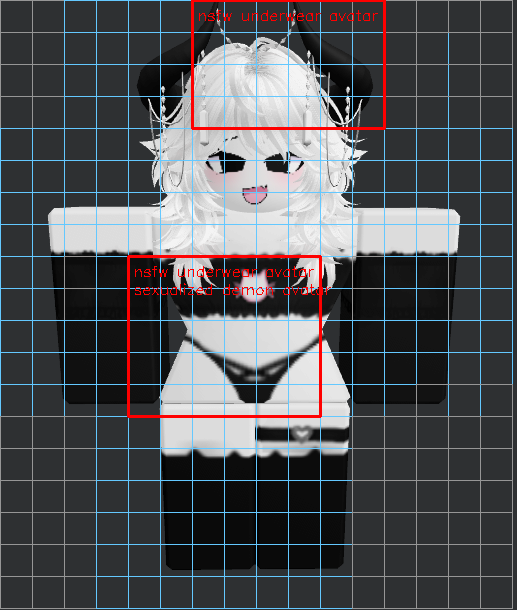
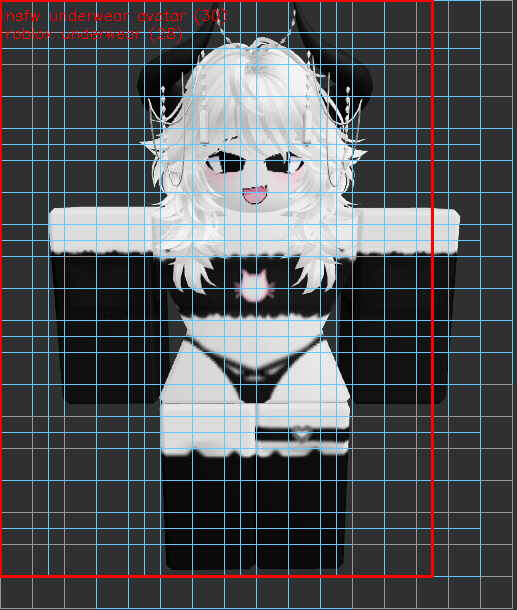
Add multi patch size processing
- Add multi patch size processing

diff --git a/check_image.py b/check_image.py
@@ -13,7 +13,7 @@ INPUT_FOLDER = "input_images"
 OUTPUT_FOLDER = "output_images"
 PATCH_SIZE = 96
 STRIDE = 32
-THRESHOLD = 0.29
+THRESHOLD = 0.28
 LOG_PATH = "renamed_log.txt"
 
 # Create output folder if needed
@@ -25,13 +25,40 @@ device = "cuda" if torch.cuda.is_available() else "cpu"
 model, preprocess = clip.load("ViT-B/32", device=device)
 
 prompts = [
-    # Clothing prompts
-    "black thong", "black lingerie thong", "exposed crotch", "revealing groin",
-    "tight underwear", "nsfw underwear avatar", "bikini underwear", "lingerie",
-    "sexualized demon avatar", "anime girl in thong", "revealing lower body",
-    
-    # Symbol prompts
-    "swastika", "nazi eagle", "wehrmacht eagle", "kkk badge", "offensive patch"
+    "nazi symbol", "swastika", "kkk badge", "racist insignia",
+    "offensive patch", "white supremacist symbol", "wehrmacht eagle",
+    "reichsadler emblem", "nazi eagle badge", "german military patch",
+    "silver nazi eagle", "german eagle insignia", "metal eagle badge on black uniform",
+    "black thong",
+"anime girl wearing thong",
+"seductive outfit",
+"exposed groin area",
+"lingerie thong",
+"underwear on female body",
+"nsfw humanoid character",
+"revealing crotch clothing",
+"female character in lingerie",
+"black thong",
+"black lingerie thong",
+"exposed crotch",
+"revealing groin",
+"anime girl in thong",
+"underwear only",
+"crotch underwear",
+"nsfw underwear avatar",
+"tight underwear",
+"black bikini bottom",
+"roblox underwear",
+"black thong on pale skin",
+"anime girl in g-string",
+"underwear bikini bottom",
+"revealing underwear on pale body",
+"female character with crotch exposed",
+"anime crop top and thong",
+"sexy anime avatar",
+"anime skin exposure",
+"low rise thong",
+"exposed underboob and thong"
 ]
 
 text_tokens = clip.tokenize(prompts).to(device)
@@ -85,21 +112,26 @@ for filename in sorted(safe_files):
     all_boxes = []
     all_labels = []
 
-    for y in range(0, height - PATCH_SIZE + 1, STRIDE):
-        for x in range(0, width - PATCH_SIZE + 1, STRIDE):
-            patch = original_rgb[y:y+PATCH_SIZE, x:x+PATCH_SIZE]
-            gray = cv2.cvtColor(patch, cv2.COLOR_RGB2GRAY)
-            stddev = gray.std()
-            brightness = gray.mean()
+    # === Multi-scale patch extraction ===
+    scan_configs = [(96, 32), (192, 48)]  # (patch_size, stride)
 
-            if stddev < 8 or brightness > 245 or brightness < 10:
-                cv2.rectangle(output, (x, y), (x+PATCH_SIZE, y+PATCH_SIZE), (150, 150, 150), 1)
-                continue
+    for PATCH_SIZE, STRIDE in scan_configs:
+        for y in range(0, height - PATCH_SIZE + 1, STRIDE):
+            for x in range(0, width - PATCH_SIZE + 1, STRIDE):
+                patch = original_rgb[y:y+PATCH_SIZE, x:x+PATCH_SIZE]
+                gray = cv2.cvtColor(patch, cv2.COLOR_RGB2GRAY)
+                stddev = gray.std()
+                brightness = gray.mean()
 
-            cv2.rectangle(output, (x, y), (x+PATCH_SIZE, y+PATCH_SIZE), (255, 200, 100), 1)
-            patch_tensor = preprocess(Image.fromarray(patch)).unsqueeze(0)
-            patch_tensors.append(patch_tensor)
-            patch_coords.append((x, y))
+                if stddev < 8 or brightness > 245 or brightness < 10:
+                    cv2.rectangle(output, (x, y), (x+PATCH_SIZE, y+PATCH_SIZE), (150, 150, 150), 1)
+                    continue
+
+                color = (255, 200, 100) if PATCH_SIZE == 96 else (255, 100, 50)
+                cv2.rectangle(output, (x, y), (x+PATCH_SIZE, y+PATCH_SIZE), (255, 200, 100), 1)
+                patch_tensor = preprocess(Image.fromarray(patch)).unsqueeze(0)
+                patch_tensors.append(patch_tensor)
+                patch_coords.append((x, y, PATCH_SIZE))  # include size so you can draw later
 
     print(f"📄 {filename}: {len(patch_tensors)} patches processed")
 
@@ -113,8 +145,8 @@ for filename in sorted(safe_files):
             max_scores, best_indices = similarities.max(dim=1)
 
         for i, (score, sim_vec) in enumerate(zip(max_scores, similarities)):
-            x, y = patch_coords[i]
-            box_coords = (x, y, x+PATCH_SIZE, y+PATCH_SIZE)
+            x, y, psize = patch_coords[i]
+            box_coords = (x, y, x+psize, y+psize)
             labels = [prompts[j] for j, val in enumerate(sim_vec) if val.item() > THRESHOLD]
 
             if labels:
@@ -123,7 +155,7 @@ for filename in sorted(safe_files):
                 all_labels.append(labels)
                 print(f"❌ {filename} patch at ({x},{y}) matched: {labels}")
 
-    # === Merge overlapping boxes ===
+    # === Merge overlapping boxes and build score-labeled outputs ===
     merged = []
     if all_boxes:
         unioned = unary_union(all_boxes)
@@ -134,18 +166,36 @@ for filename in sorted(safe_files):
 
         for group in unioned:
             minx, miny, maxx, maxy = map(int, group.bounds)
-            labels_for_group = []
-            for lbl_box, labels in zip(all_boxes, all_labels):
-                if lbl_box.intersects(group):
-                    labels_for_group.extend(labels)
-            unique_labels = sorted(set(labels_for_group))
-            merged.append(((minx, miny, maxx, maxy), unique_labels))
 
+            # Track best score per label in this group
+            label_score_map = {}
+            for lbl_box, sim_vec in zip(all_boxes, similarities):
+                if lbl_box.intersects(group):
+                    for j, val in enumerate(sim_vec):
+                        score = val.item()
+                        if score > THRESHOLD:
+                            label = prompts[j]
+                            current = label_score_map.get(label, 0)
+                            label_score_map[label] = max(current, score)
+
+            # Skip red box if no labels exceeded threshold
+            if not label_score_map:
+                continue
+            
+            labeled_outputs = [
+                f"{label} ({int(score * 100)})"
+                for label, score in sorted(label_score_map.items())
+            ]
+            
+            merged.append(((minx, miny, maxx, maxy), labeled_outputs))
+
+    # === Draw final merged boxes with labels
     for (x1, y1, x2, y2), labels in merged:
         cv2.rectangle(output, (x1, y1), (x2, y2), (0, 0, 255), 2)
         for i, label in enumerate(labels):
             y_offset = y1 + 20 + i * 18
             cv2.putText(output, label, (x1 + 5, y_offset), cv2.FONT_HERSHEY_SIMPLEX, 0.5, (0, 0, 255), 1)
 
+    # Save output image
     cv2.imwrite(output_path, output)
     print(f"💾 Output saved to: {output_path}\n")
